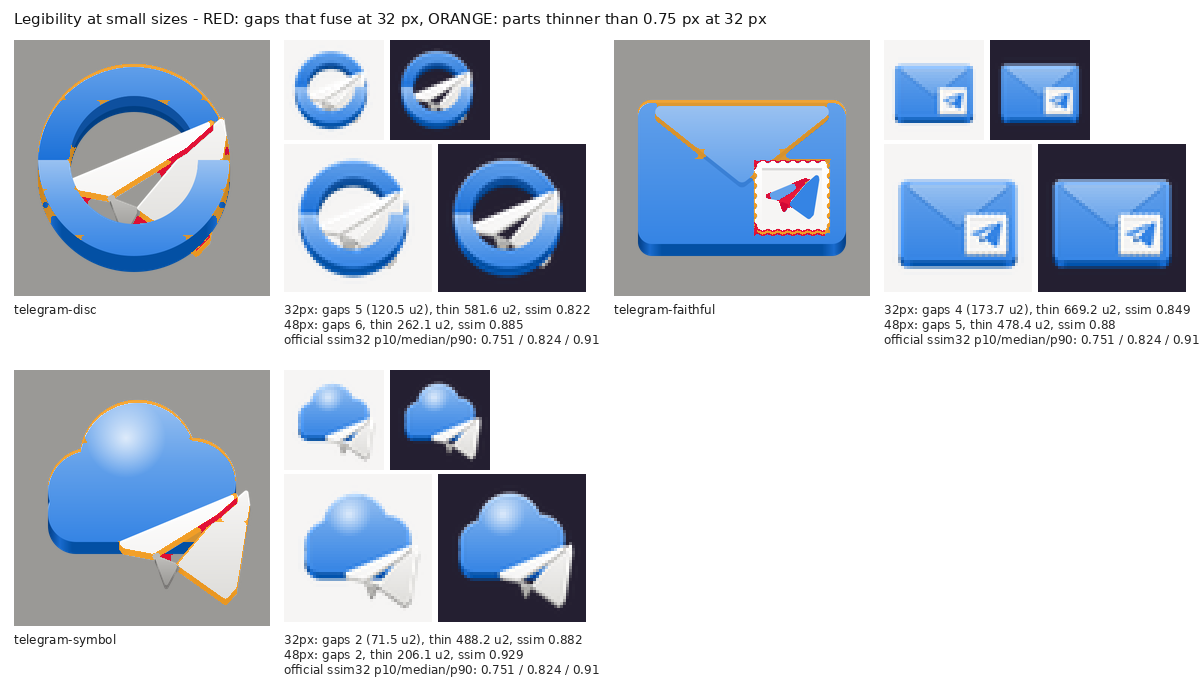
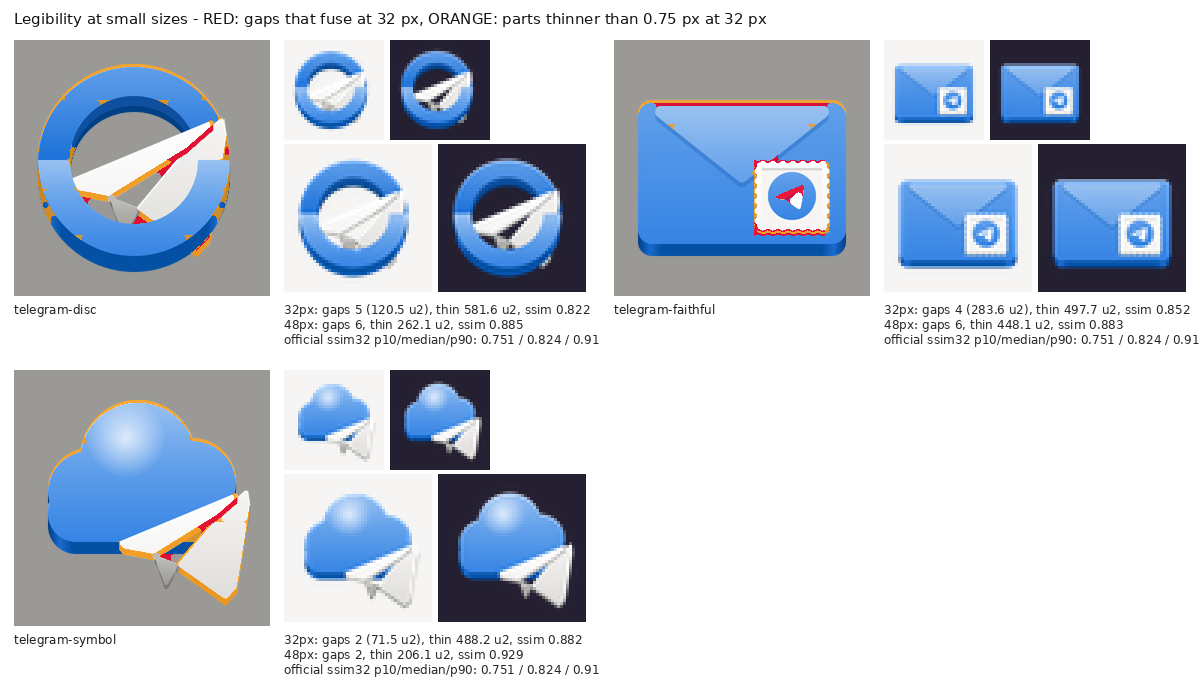
Telegram envelope: the stamp prints Telegram's own mark (measured circle + plane)
The stamp showed a simplified three-piece plane with a detached fold. Now it carries
the source's mark: circle (silhouette) and white plane (holes) from geometry.json,
scaled as one unit. Gate 21 PASS 0 FAIL.

Claude-Session: https://claude.ai/code/session_01FFsWQjRjvkti81EALpUKZf

diff --git a/work/telegram/redesign.py b/work/telegram/redesign.py
@@ -92,10 +92,15 @@ def design_envelope():
                        [circ(x, y, 1.6) for y in range(63, 96, 5) for x in (70, 108)])
     stamp = st.difference(perf)
     solid(ic, stamp, face=[(0, "#ffffff"), (1, "#f6f5f4")], depth=2, side="#deddda", layer="stamp")
-    tw, bd, fl = plane(0.42, 64, 50)
     recess(ic, box(74, 64, 104, 92), "#f6f5f4", wall=1.2, wall_opacity=0.12, layer="stamp-print-area")
-    for g, c, n in ((fl, "#1a5fb4", "fold"), (bd, "#3584e4", "body"), (tw, "#62a0ea", "wing")):
-        ic.path(geom_d(g), c, layer_id=f"stamp-plane-{n}")
+    # the print: Telegram's own mark, exact shapes measured from the source (geometry.json:
+    # the circle = silhouette, the white plane = holes), scaled as one unit onto the stamp
+    import json
+    import fam
+    g = json.loads((Path(__file__).resolve().parent / "geometry.json").read_text())["parts"]
+    (disc_d, plane_d), _ = fam.place([g["silhouette"]["d"], g["holes"]["d"]], (77, 66, 101, 90), ref=[g["silhouette"]["d"]])
+    ic.path(disc_d, ic.linear([(0, "#62a0ea"), (1, "#3584e4")], 0, 66, 0, 90), layer_id="stamp-print-disc")
+    ic.path(plane_d, "#ffffff", layer_id="stamp-print-plane")
     return ic
 
 
